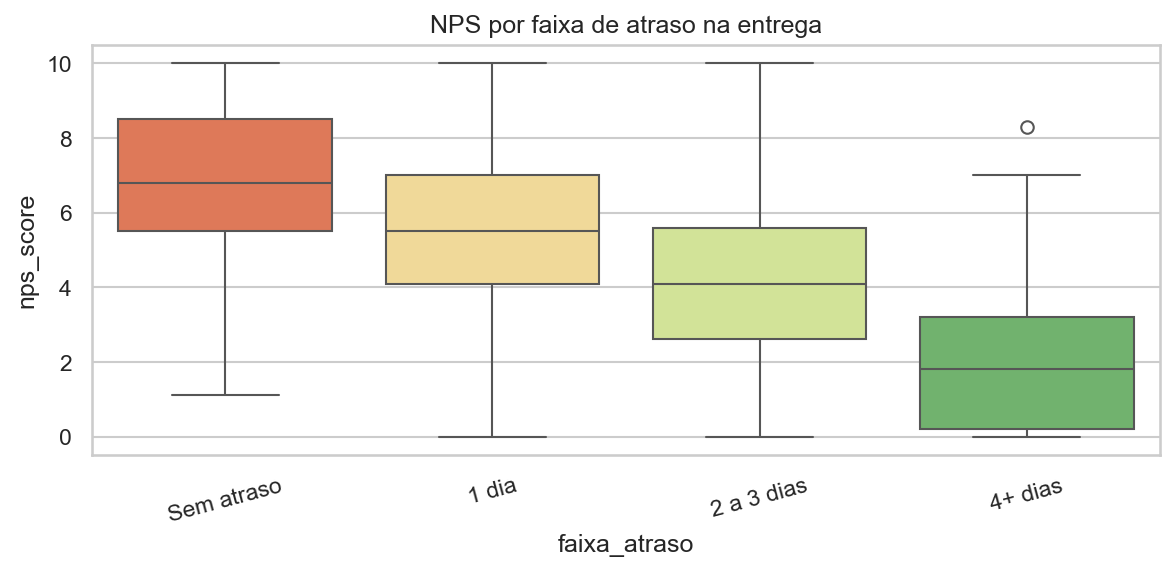
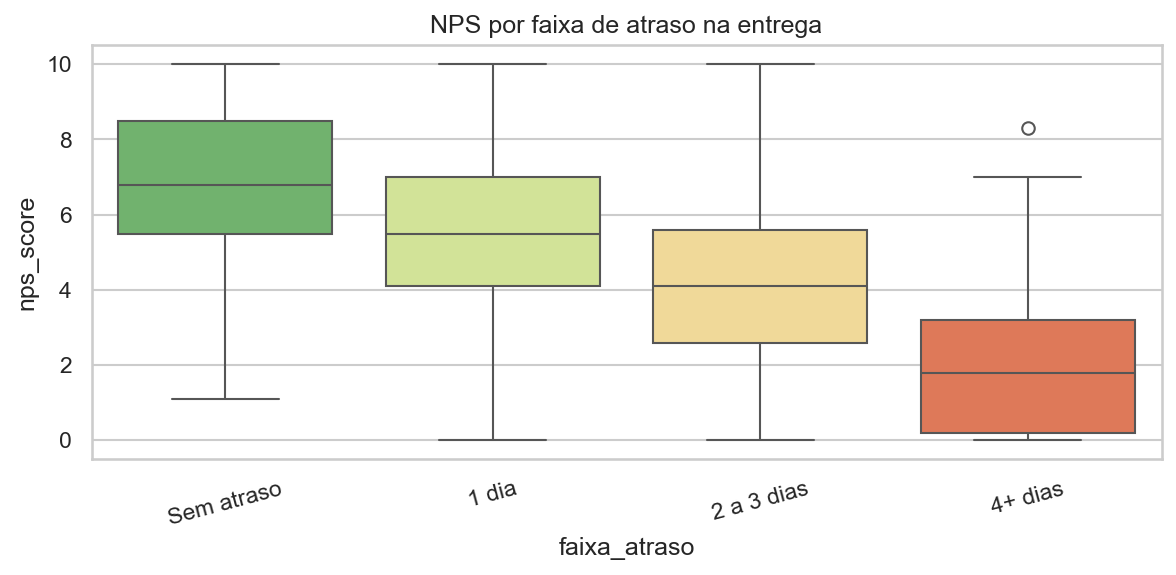
Ajuste paleta fig03 (RdYlGn_r), notebook EDA e gitignore Office temp

diff --git a/scripts/build_notebooks.py b/scripts/build_notebooks.py
@@ -119,7 +119,19 @@ tbl = df.groupby("faixa_atraso", observed=True)["nps_score"].agg(["mean", "media
 display(tbl)
 
 fig, ax = plt.subplots(figsize=(8, 4))
-sns.boxplot(data=df, x="faixa_atraso", y="nps_score", order=labels, ax=ax, palette="RdYlGn")
+# RdYlGn_r: verde = melhor (sem atraso), vermelho = pior (4+ dias)
+sns.boxplot(
+    data=df,
+    x="faixa_atraso",
+    y="nps_score",
+    order=labels,
+    hue="faixa_atraso",
+    hue_order=labels,
+    palette="RdYlGn_r",
+    dodge=False,
+    legend=False,
+    ax=ax,
+)
 ax.set_title("NPS por faixa de atraso na entrega")
 plt.xticks(rotation=15)
 plt.tight_layout()